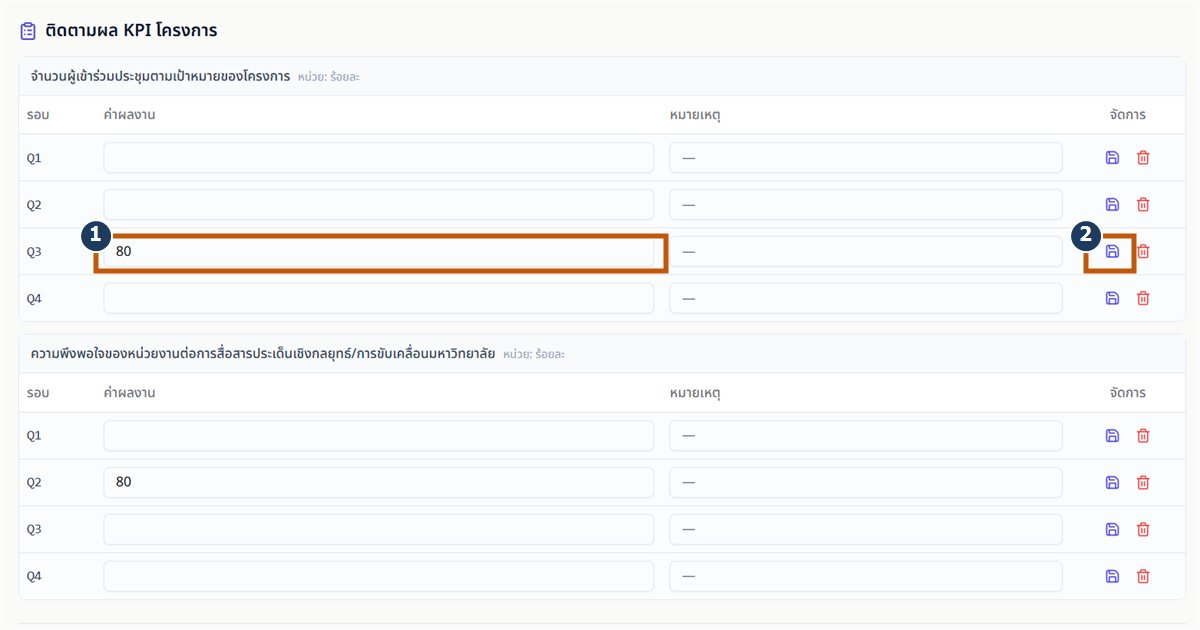
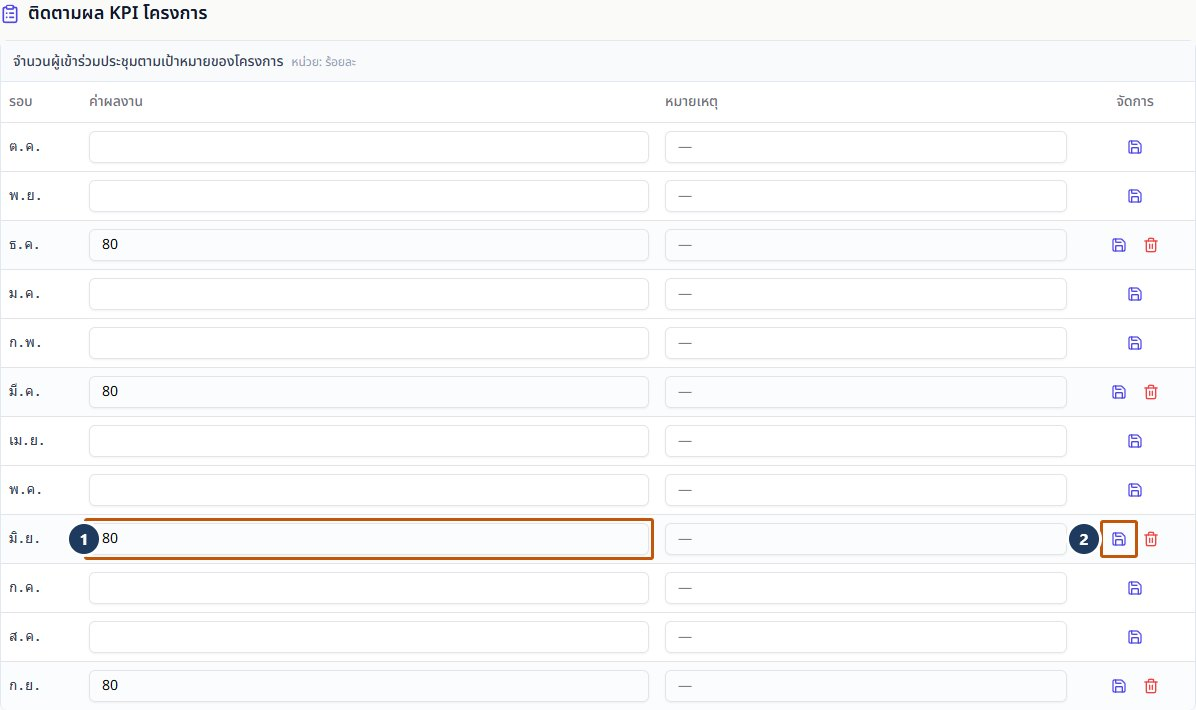
งวดรายงานผลเหลือรายเดือนอย่างเดียว — เว็บจริงยังบอกว่ามี H1/H2
ภาพ m3-4 แคปใหม่จาก prod: ตารางติดตามผล KPI โครงการเป็น 12 แถวรายเดือน
(ต.ค.–ก.ย.) แล้ว ไม่ใช่ Q1–Q4 · 12 แถวทำให้การ์ดเดียวสูงพอ ๆ กับ 2 การ์ด
เดิม ภาพใหม่จึงคลุมหัวข้อ + การ์ด KPI ใบแรกใบเดียว · alt กับ caption แก้
หลังแคปเสร็จให้ตรงกับภาพจริง

เนื้อหาอีก 2 จุดที่ยังบอกว่ามีงวดครึ่งปี: บรรทัดสรุปใน M4 และคำว่า
"รอบ / งวด" ในอภิธานศัพท์

mirror จาก repo หลัก 0b61f49 (PR #214) — ADR-0011 / PA-46

diff --git a/index.html b/index.html
@@ -663,7 +663,7 @@ figure.shot figcaption{font-size:12.5px; color:var(--ink-muted); padding:7px 12p
               <p>เปิดโครงการที่ <code>/projects</code> จะเห็น <strong class="lbl">แผนกิจกรรม</strong> (ผังเวลา) พร้อมแถบความคืบหน้า และส่วน <strong class="lbl">ติดตามผล KPI โครงการ</strong> สำหรับกรอกค่าผลงานรายรอบ</p>
               <div class="shot-pair">
                 <figure class="shot"><img src="img/m3-3.jpg" width="1200" height="328" loading="lazy" decoding="async" alt="หน้าโครงการ แสดงแผนกิจกรรมเป็นผังเวลาพร้อมแถบความคืบหน้าโครงการ และแถบกิจกรรมที่เปลี่ยนสีตามสถานะ"><figcaption>ภาพจากระบบจริง · ① แถบ "ความคืบหน้าโครงการ" · ② แถบกิจกรรมเปลี่ยนสีตามสถานะ: เขียว + ✓ = เสร็จแล้ว · ส้ม = กำลังดำเนินการ · เทา = ยังไม่เริ่ม</figcaption></figure>
-                <figure class="shot"><img src="img/m3-4.jpg" width="1200" height="630" loading="lazy" decoding="async" alt="ส่วนติดตามผล KPI โครงการ แสดงตารางกรอกค่าผลงานแยกรายรอบ Q1 ถึง Q4"><figcaption>ภาพจากระบบจริง · ① ช่อง "ค่าผลงาน" รายรอบ · ② ไอคอนบันทึกแต่ละรอบ</figcaption></figure>
+                <figure class="shot"><img src="img/m3-4.jpg" width="1196" height="710" loading="lazy" decoding="async" alt="ส่วนติดตามผล KPI โครงการ แสดงตารางกรอกค่าผลงานของตัวชี้วัดหนึ่งตัว มี 12 แถวรายเดือน เรียงจาก ต.ค. ถึง ก.ย. แต่ละแถวมีช่องค่าผลงาน ช่องหมายเหตุ และไอคอนบันทึก"><figcaption>ภาพจากระบบจริง · ① ช่อง "ค่าผลงาน" รายเดือน · ② ไอคอนบันทึกของเดือนนั้น</figcaption></figure>
               </div>
             </div>
           </div>
@@ -729,7 +729,7 @@ figure.shot figcaption{font-size:12.5px; color:var(--ink-muted); padding:7px 12p
 
           <div class="wb-row">
             <div class="wb-text">
-        <p>กรอกผลแยกตามรอบ (M1–M12 รายเดือน · H1/H2 รายครึ่งปี) วันนี้ใช้ <strong class="lbl">M9 (มิ.ย.)</strong> กรอกค่าเกินเป้าได้ แต่คะแนนตันที่ <strong class="lbl">100%</strong></p>
+        <p>กรอกผลแยกตามรอบ ซึ่งเป็นรายเดือนอย่างเดียว <strong class="lbl">M1–M12</strong> วันนี้ใช้ <strong class="lbl">M9 (มิ.ย.)</strong> กรอกค่าเกินเป้าได้ แต่คะแนนตันที่ <strong class="lbl">100%</strong></p>
         <div class="deck">
           <span class="h">สองสถานะที่ต้องแยกให้ออก</span>
           <dl>
@@ -956,7 +956,7 @@ figure.shot figcaption{font-size:12.5px; color:var(--ink-muted); padding:7px 12p
           <div class="row"><div class="term">PA</div><div class="def">ข้อตกลงการปฏิบัติงาน — ชุดตัวชี้วัดที่หน่วยงานรับผิดชอบในปีงบ</div></div>
           <div class="row"><div class="term">น้ำหนัก</div><div class="def">สัดส่วนความสำคัญของตัวชี้วัด (รวมทุกตัว = 100%)</div></div>
           <div class="row"><div class="term">เป้าหมาย</div><div class="def">ค่าที่ต้องทำให้ถึงในปีงบ</div></div>
-          <div class="row"><div class="term">รอบ / งวด</div><div class="def">ช่วงเวลารายงานผล (M1–M12 รายเดือน, H1/H2 รายครึ่งปี)</div></div>
+          <div class="row"><div class="term">รอบ / งวด</div><div class="def">ช่วงเวลารายงานผล — รายเดือนอย่างเดียว M1–M12 (M1 = ต.ค. … M12 = ก.ย.)</div></div>
           <div class="row"><div class="term">ร่าง / ส่งรายงาน</div><div class="def">ร่าง = บันทึกไว้แก้ไขได้ ยังไม่ส่ง · ส่งรายงาน = ส่งให้ admin แก้ไขไม่ได้จนกว่าจะถูกส่งกลับ</div></div>
           <div class="row"><div class="term">กิจกรรม</div><div class="def">งานในแผนปฏิบัติการที่ผูกกับผลที่กรอก (ไม่บังคับ)</div></div>
         </div>
